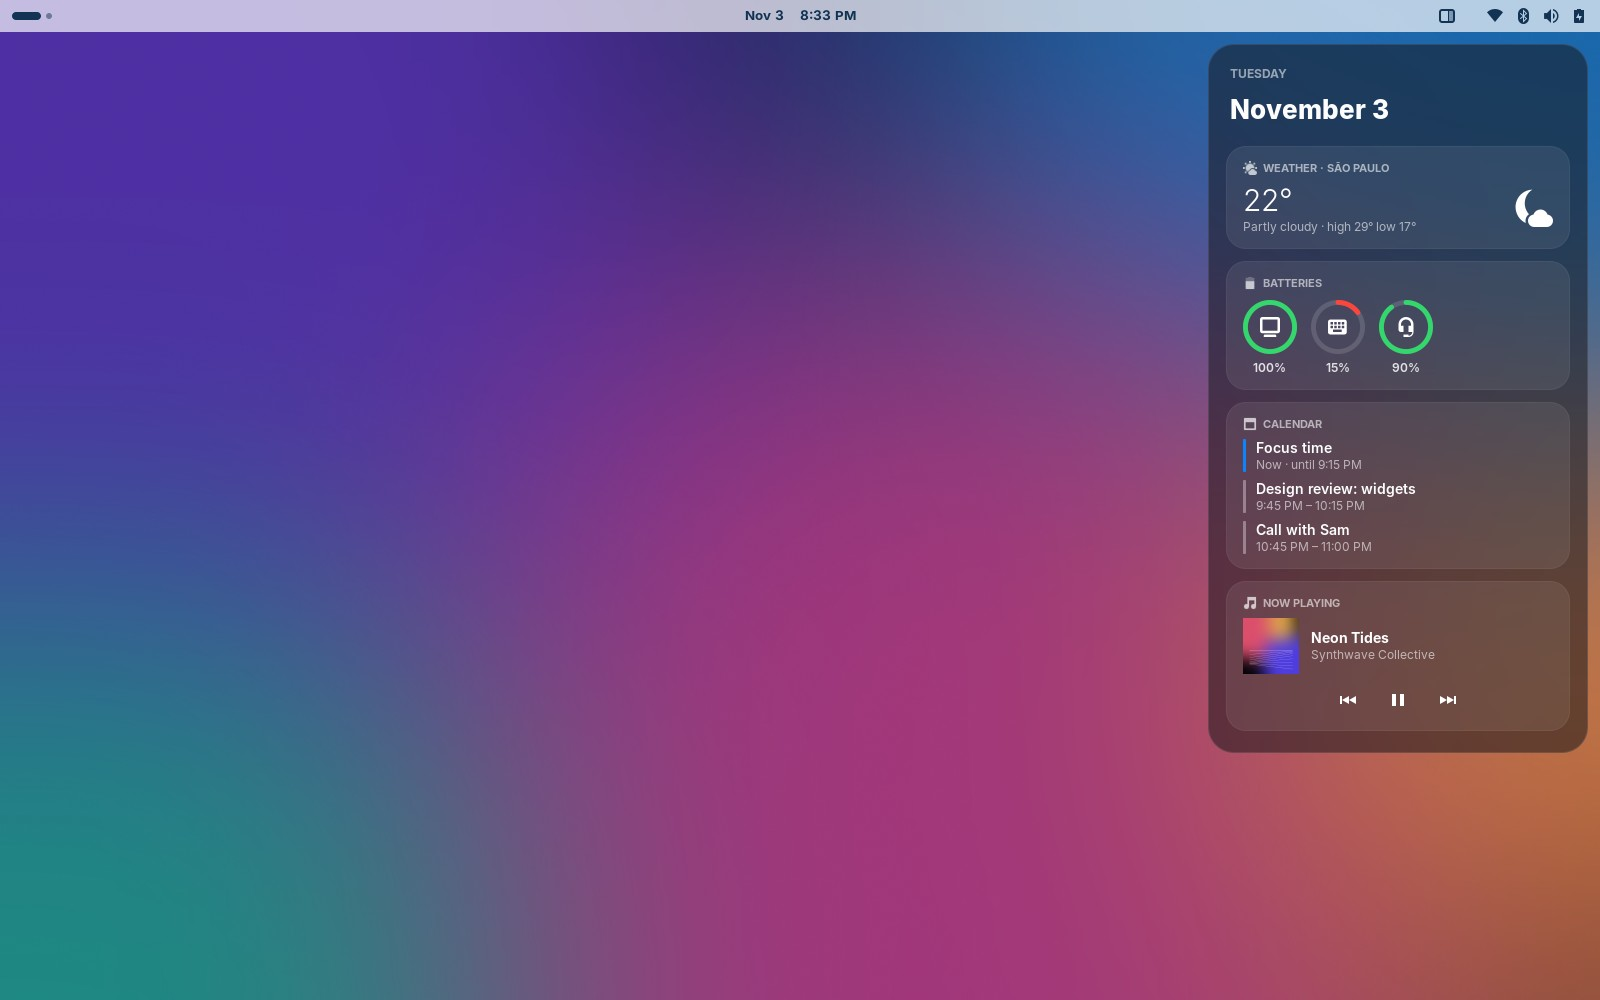
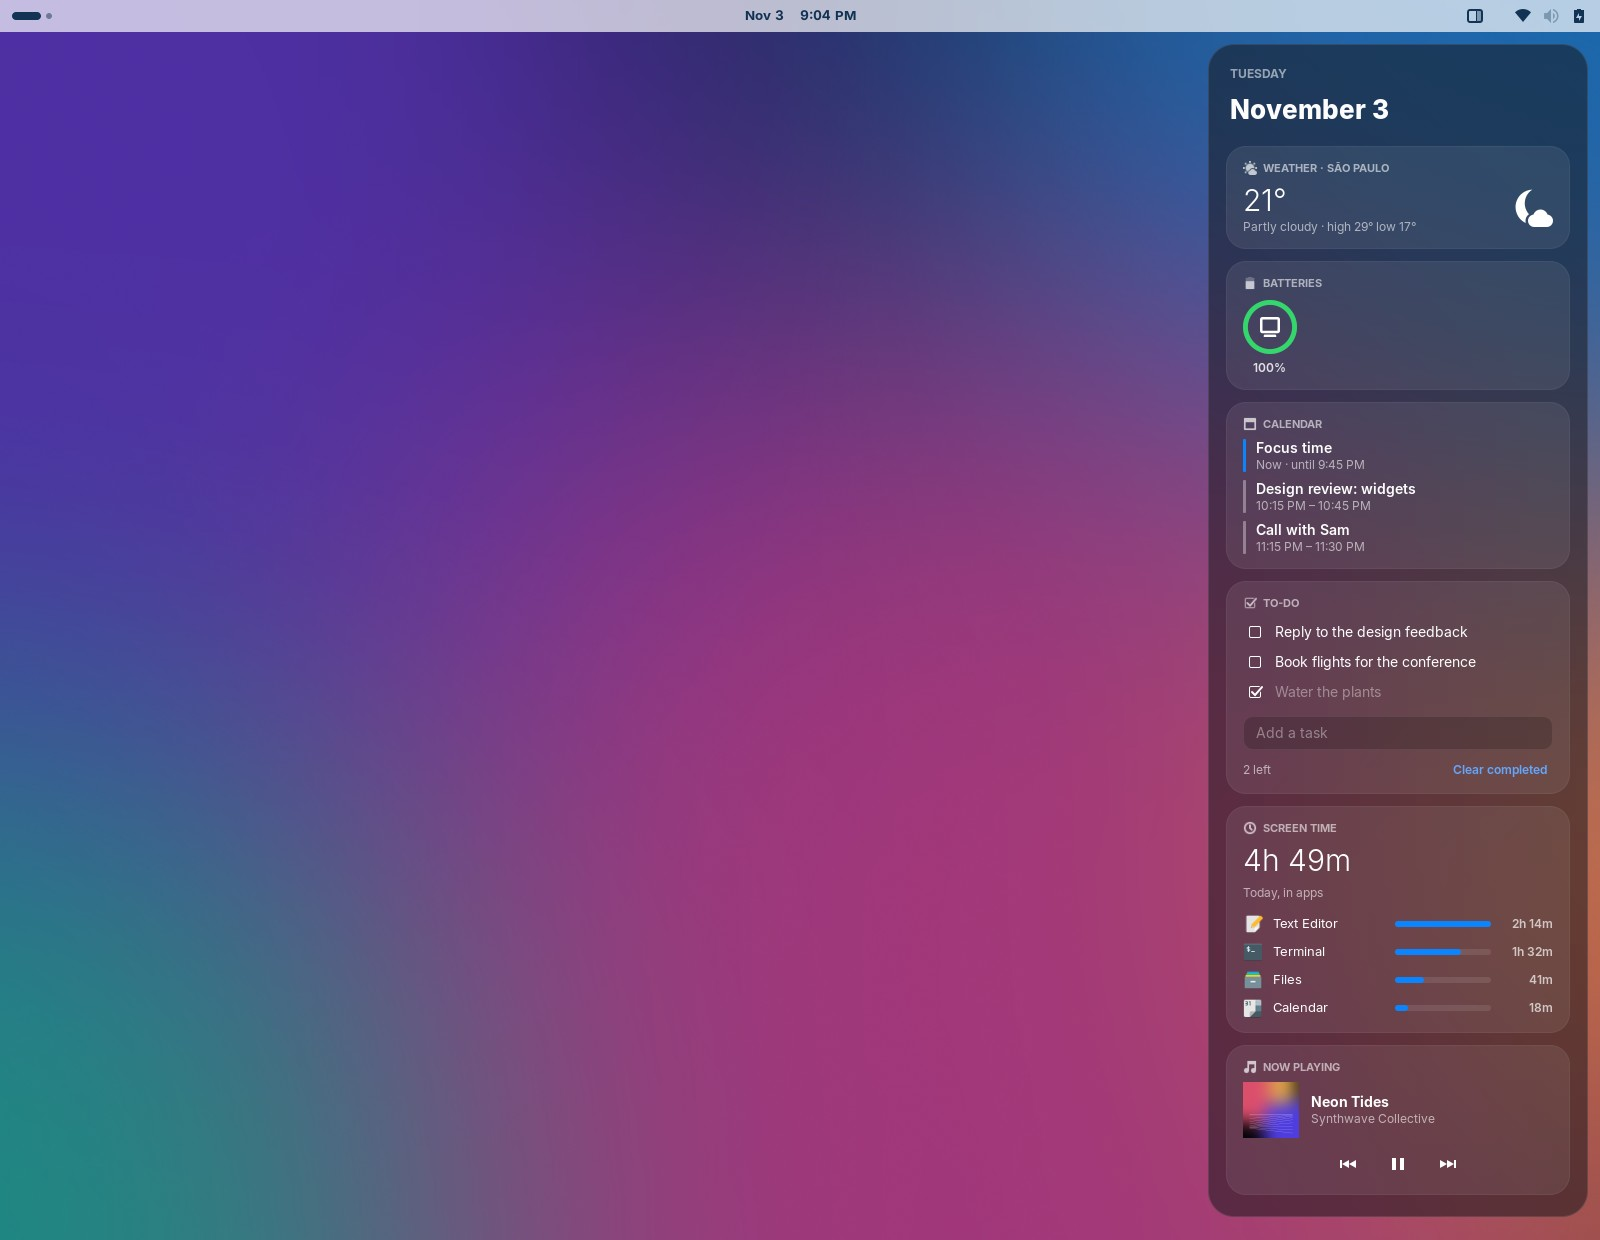
chore(dev): headless test shell, isolated nested data, docs refresh
- scripts/headless.sh and scripts/dev-signal.sh drive a headless GNOME
  Shell with controllable pointer and keyboard.
- nested.sh and headless.sh load the checkout from a private data
  folder, so an installed copy is never shadowed or overwritten.
- pack.sh ships every top-level module; translation templates use
  relative paths and no fuzzy guesses.
- README, CONTRIBUTING, ARCHITECTURE, and CHANGELOG cover the new
  widgets; screenshots regenerated with demo to-do and usage data.

Changed region(s): [[0.0, 0.0, 1.0, 0.992], [0.9375, 0.155, 0.9688, 0.248], [0.9062, 0.62, 0.9688, 0.651]]

diff --git a/tools/screenshots/make_assets.py b/tools/screenshots/make_assets.py
@@ -68,3 +68,19 @@ for i, (summary, a, b) in enumerate(events):
 lines.append("END:VCALENDAR")
 (out / "calendar.ics").write_text("\r\n".join(lines) + "\r\n")
 print(out)
+
+# Ledge's own data, as it would be after a normal day.
+import json  # noqa: E402
+
+(out / "todo.json").write_text(json.dumps({"items": [
+    {"id": "demo-1", "text": "Reply to the design feedback", "done": False},
+    {"id": "demo-2", "text": "Book flights for the conference", "done": False},
+    {"id": "demo-3", "text": "Water the plants", "done": True},
+]}))
+(out / "usage.json").write_text(json.dumps({"days": {now.strftime("%Y-%m-%d"): {
+    "org.gnome.TextEditor.desktop": 2 * 3600 + 14 * 60,
+    "org.gnome.Terminal.desktop": 1 * 3600 + 32 * 60,
+    "org.gnome.Nautilus.desktop": 41 * 60,
+    "org.gnome.Calendar.desktop": 18 * 60,
+    "org.gnome.Calculator.desktop": 4 * 60,
+}}}))

diff --git a/tools/screenshots/capture.py b/tools/screenshots/capture.py
@@ -17,7 +17,7 @@ from PIL import Image, ImageChops  # noqa: E402
 UUID = "ledge@gabrielgirardi.github.io"
 PATH = "/io/github/gabrielgirardi/Ledge/Touchpad"
 DEV = "io.github.gabrielgirardi.Ledge.Dev1"
-W, H = 1600, 1000
+W, H = 1600, 1240
 
 work, images, schema_dir = Path(sys.argv[1]), Path(sys.argv[2]), sys.argv[3]
 raw = work / "raw"
@@ -152,8 +152,8 @@ finally:
     player.terminate()
 
 hero.save(images / "hero.jpg", quality=90, optimize=True, progressive=True)
-hero.crop((W - 470, 0, W, 780)).save(images / "panel.png", optimize=True)
-left.crop((0, 0, 470, 780)).save(images / "left-pt-br.png", optimize=True)
+hero.crop((W - 470, 0, W, H)).save(images / "panel.png", optimize=True)
+left.crop((0, 0, 470, H)).save(images / "left-pt-br.png", optimize=True)
 
 box = ImageChops.difference(prefs_full, desktop).getbbox()
 if box:

diff --git a/CONTRIBUTING.md b/CONTRIBUTING.md
@@ -39,26 +39,39 @@ The nested shell has a separate session bus, so it does not see your music
 players or other session services. Test the Now Playing widget either in your
 real session or with a player started on the nested bus.
 
-### Development hooks
+### Headless shell and development hooks
 
-`nested.sh` sets `LEDGE_DEV=1`. In that mode, the extension listens for
-signals on `io.github.gabrielgirardi.Ledge.Dev1`. With them you can drive the
-panel and capture screenshots without touching the touchpad:
-
-| Signal | Effect |
-|---|---|
-| `Show(d progress)` | Pins the panel at a position from 0 (closed) to 1 (open). |
-| `Toggle()` | Same as the keyboard shortcut. |
-| `Shot(s path)` | Saves a PNG of the whole stage. |
-| `Dump()` | Logs the allocation of every panel layer. |
+`scripts/headless.sh` starts GNOME Shell without a window. It runs Ledge from
+your checkout with development hooks on, and returns once the extension is
+`ACTIVE`. In the nested window, the pointer belongs to your real session, so a
+scripted click lands wherever your mouse left the window. In the headless
+shell, the pointer is fully controllable. Use it to reproduce input bugs and
+to check behavior from a script:
 
 ```sh
-export DBUS_SESSION_BUS_ADDRESS=...   # the nested shell's bus, from /proc/<pid>/environ
-gdbus emit --session --object-path /io/github/gabrielgirardi/Ledge/Touchpad \
-  --signal io.github.gabrielgirardi.Ledge.Dev1.Show 1.0
+./scripts/headless.sh                         # prints READY and the log path
+./scripts/dev-signal.sh Toggle                # open the panel
+./scripts/dev-signal.sh Click 300 500         # click outside it
+./scripts/dev-signal.sh State                 # log state, grab, and key focus
+grep ledge-state "$XDG_RUNTIME_DIR/ledge-nested/shell.log"
+./scripts/headless.sh --stop
 ```
 
-The hooks never load in a normal session.
+| Hook | Effect |
+|---|---|
+| `Toggle` | Same as the keyboard shortcut |
+| `Show P` | Pins the panel at a position from 0 (closed) to 1 (open) |
+| `Click X Y`, `Scroll X Y STEPS` | Real pointer events, through the same path as a mouse |
+| `Key KEYVAL`, `Type TEXT` | Real key events. `65307` is Escape; `\n` in the text presses Return. |
+| `Shot PATH` | Saves a PNG of the whole stage |
+| `State`, `Dump` | Log the panel state, or the allocation of every layer |
+
+`nested.sh` also sets `LEDGE_DEV=1`, so the same hooks work there. The hooks
+never load in a normal session.
+
+Both shells use a private data folder (`$XDG_RUNTIME_DIR/ledge-nested/data`).
+An installed copy of Ledge stays untouched, and the to-do list and screen
+time you see in them are separate from your real ones.
 
 ### Gesture helper
 
@@ -141,6 +154,9 @@ version.
   which can differ from their UI language.
 - Add a widget as its own module in `widgets/`. It exposes `actor`, an
   optional `refresh()` that runs when the panel opens, and `destroy()`.
+- Persist widget data with `JsonStore` (`store.js`). It writes asynchronously
+  to `~/.local/share/ledge/`, one write at a time. Never read or write files
+  synchronously.
 
 **Python (helper)**
 

diff --git a/docs/ARCHITECTURE.md b/docs/ARCHITECTURE.md
@@ -91,9 +91,24 @@ When the fingers lift, the panel settles toward the end the user meant. A
 release velocity above 1.2 panel-widths per second wins. Otherwise the panel
 goes to the nearer end.
 
-While the panel is not `CLOSED`, the extension holds a modal grab. Finger
-scroll events are swallowed, so the window underneath does not scroll. A click
-outside the panel or <kbd>Esc</kbd> closes it.
+While the panel is not `CLOSED`, the extension holds a modal grab with
+`Main.pushModal(panel)`. During a Clutter grab, every event, including clicks
+outside the panel, goes only to the grab actor's subtree. So the extension
+listens on the panel's `captured-event`, not the stage's. A listener on the
+stage never fires while the grab is active.
+
+- **Click outside, or <kbd>Esc</kbd>:** closes the panel. <kbd>Esc</kbd> also
+  works while a text field in the panel has focus.
+- **Scroll over the panel:** scrolls the widgets.
+- **Scroll elsewhere:** swallowed, so the window underneath does not move.
+
+### Height
+
+The panel sizes to its content, up to the room between GNOME's panel and the
+opposite edge of the monitor. Beyond that, the content scrolls. The room is
+measured on every open from where `Main.panel` actually is. Bars that hide
+automatically, such as Zorin Taskbar or Dash to Panel, reserve no work-area
+space, so the work area alone would put the sidebar underneath them.
 
 The screen side is read once per layout, as `_layoutSide`. The gesture
 direction and the placement both use that value, so they cannot disagree. A
@@ -130,6 +145,8 @@ Each widget is a module in `widgets/` that exposes:
 | Weather | Open-Meteo geocoding and forecast (libsoup 3) | On open, when the data is older than 30 minutes |
 | Batteries | UPower over the system bus | Live, through `PropertiesChanged` and `DeviceAdded`/`DeviceRemoved` |
 | Calendar | GNOME Shell's `DBusEventSource` (the calendar server) | On open, plus change signals |
+| To-do | `~/.local/share/ledge/todo.json` through `JsonStore` | Written on every change |
+| Screen Time | `UsageTracker` (`usage.js`): `Shell.WindowTracker` focus changes, minus idle (2 min) and locked time | Always running. Saved every 60 s to `~/.local/share/ledge/usage.json`, which keeps 30 days |
 | Now Playing | GNOME Shell's `MprisPlayer`, one per `org.mpris.MediaPlayer2.*` name | Live |
 
 ## Locale

diff --git a/README.md b/README.md
@@ -74,6 +74,14 @@ Accounts.
 Cover art, title, artist, and playback controls for Spotify, browsers, and any
 other player that supports MPRIS.
 
+**✅ To-do**<br>
+A quick list for today. Type a task and press <kbd>Enter</kbd>. Check it off
+or delete it. The list stays on your machine.
+
+**⏱ Screen Time**<br>
+How long you have used each app today, with your top four. Idle and locked
+time are not counted.
+
 </td>
 </tr>
 </table>
@@ -167,6 +175,9 @@ state machine, and how the glass is rendered.
   grants access to keyboards. The helper sends nothing over the network.
 - **One network request.** The weather widget sends your city name, and then
   its coordinates, to Open-Meteo. Nothing else leaves your machine.
+- **Local data.** Your to-do list and screen time are stored only in
+  `~/.local/share/ledge/`, and only you can read them. Screen time keeps 30
+  days of history. Delete the folder to erase it.
 - **No telemetry.** Ledge has no analytics and no accounts.
 
 ## Troubleshooting
@@ -180,7 +191,7 @@ state machine, and how the glass is rendered.
 ## Roadmap
 
 - [x] Edge-swipe gesture, spring physics, frosted glass
-- [x] Weather, batteries, calendar, and Now Playing widgets
+- [x] Weather, batteries, calendar, to-do, screen time, and Now Playing widgets
 - [x] Keyboard shortcut, top bar button, left or right edge
 - [x] English and Brazilian Portuguese
 - [ ] **0.2:** a hot edge (push the pointer against the screen edge), opening on the monitor under the pointer, and choosing, reordering, and editing widgets

diff --git a/CHANGELOG.md b/CHANGELOG.md
@@ -7,15 +7,29 @@ and this project adheres to [Semantic Versioning](https://semver.org/spec/v2.0.0
 
 ## [Unreleased]
 
-### Fixed
-
-- The keyboard shortcut row in the preferences showed an empty title, because
-  `<Super>` in the title was parsed as markup.
-
 ### Added
 
+- To-do widget: add, check off, delete, and clear tasks. Stored locally in
+  `~/.local/share/ledge/todo.json`.
+- Screen Time widget: today's total and top apps by focused time, not counting
+  idle or locked time. Stored locally in `~/.local/share/ledge/usage.json`,
+  with 30 days of history.
+- The panel scrolls when its content is taller than the screen.
+- `scripts/headless.sh` and `scripts/dev-signal.sh`: a scriptable headless
+  shell with real pointer and keyboard hooks, for reproducing input bugs.
 - README screenshots and a gesture animation, generated from fictional data by
   `tools/screenshots/run.sh`.
+
+### Fixed
+
+- Clicking outside the panel or pressing <kbd>Esc</kbd> did not close it. The
+  listener was on the stage, which receives nothing while the panel holds its
+  input grab.
+- The panel no longer covers bars that hide automatically, such as Zorin
+  Taskbar with intellihide.
+- The keyboard shortcut row in the preferences showed an empty title, because
+  `<Super>` in the title was parsed as markup.
+- Translation templates no longer contain absolute paths.
 
 ## [0.1.0] - 2026-11-03
 
